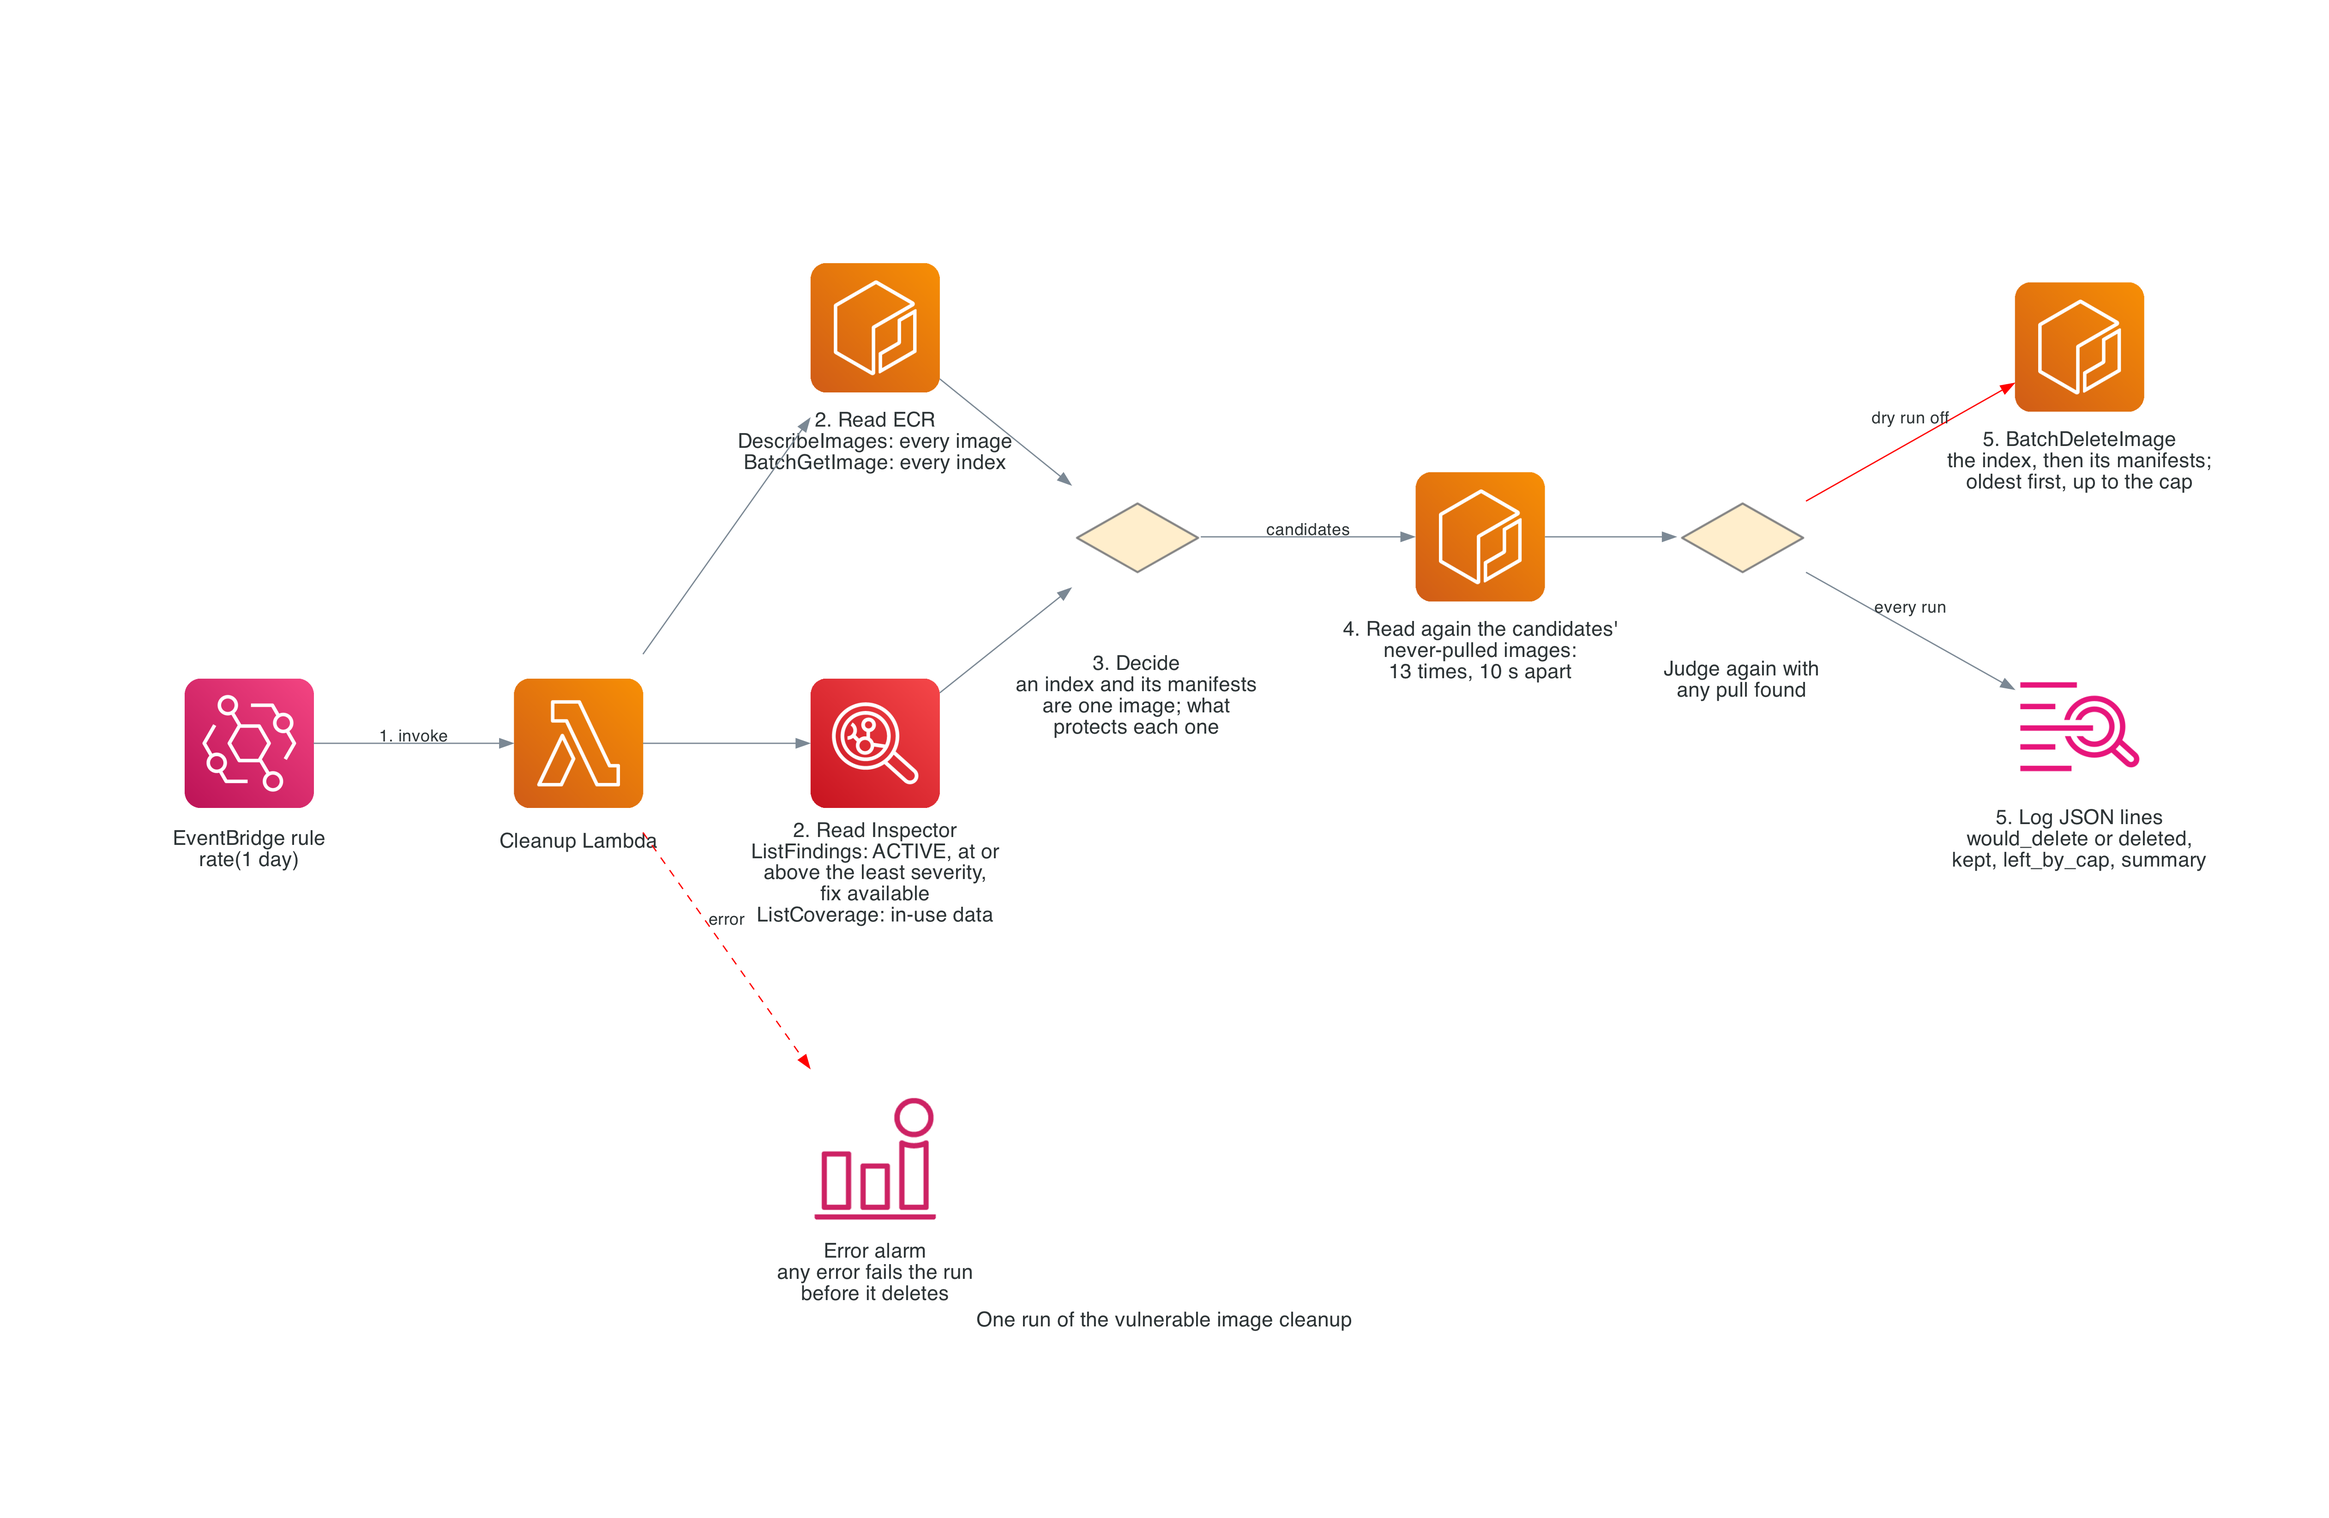
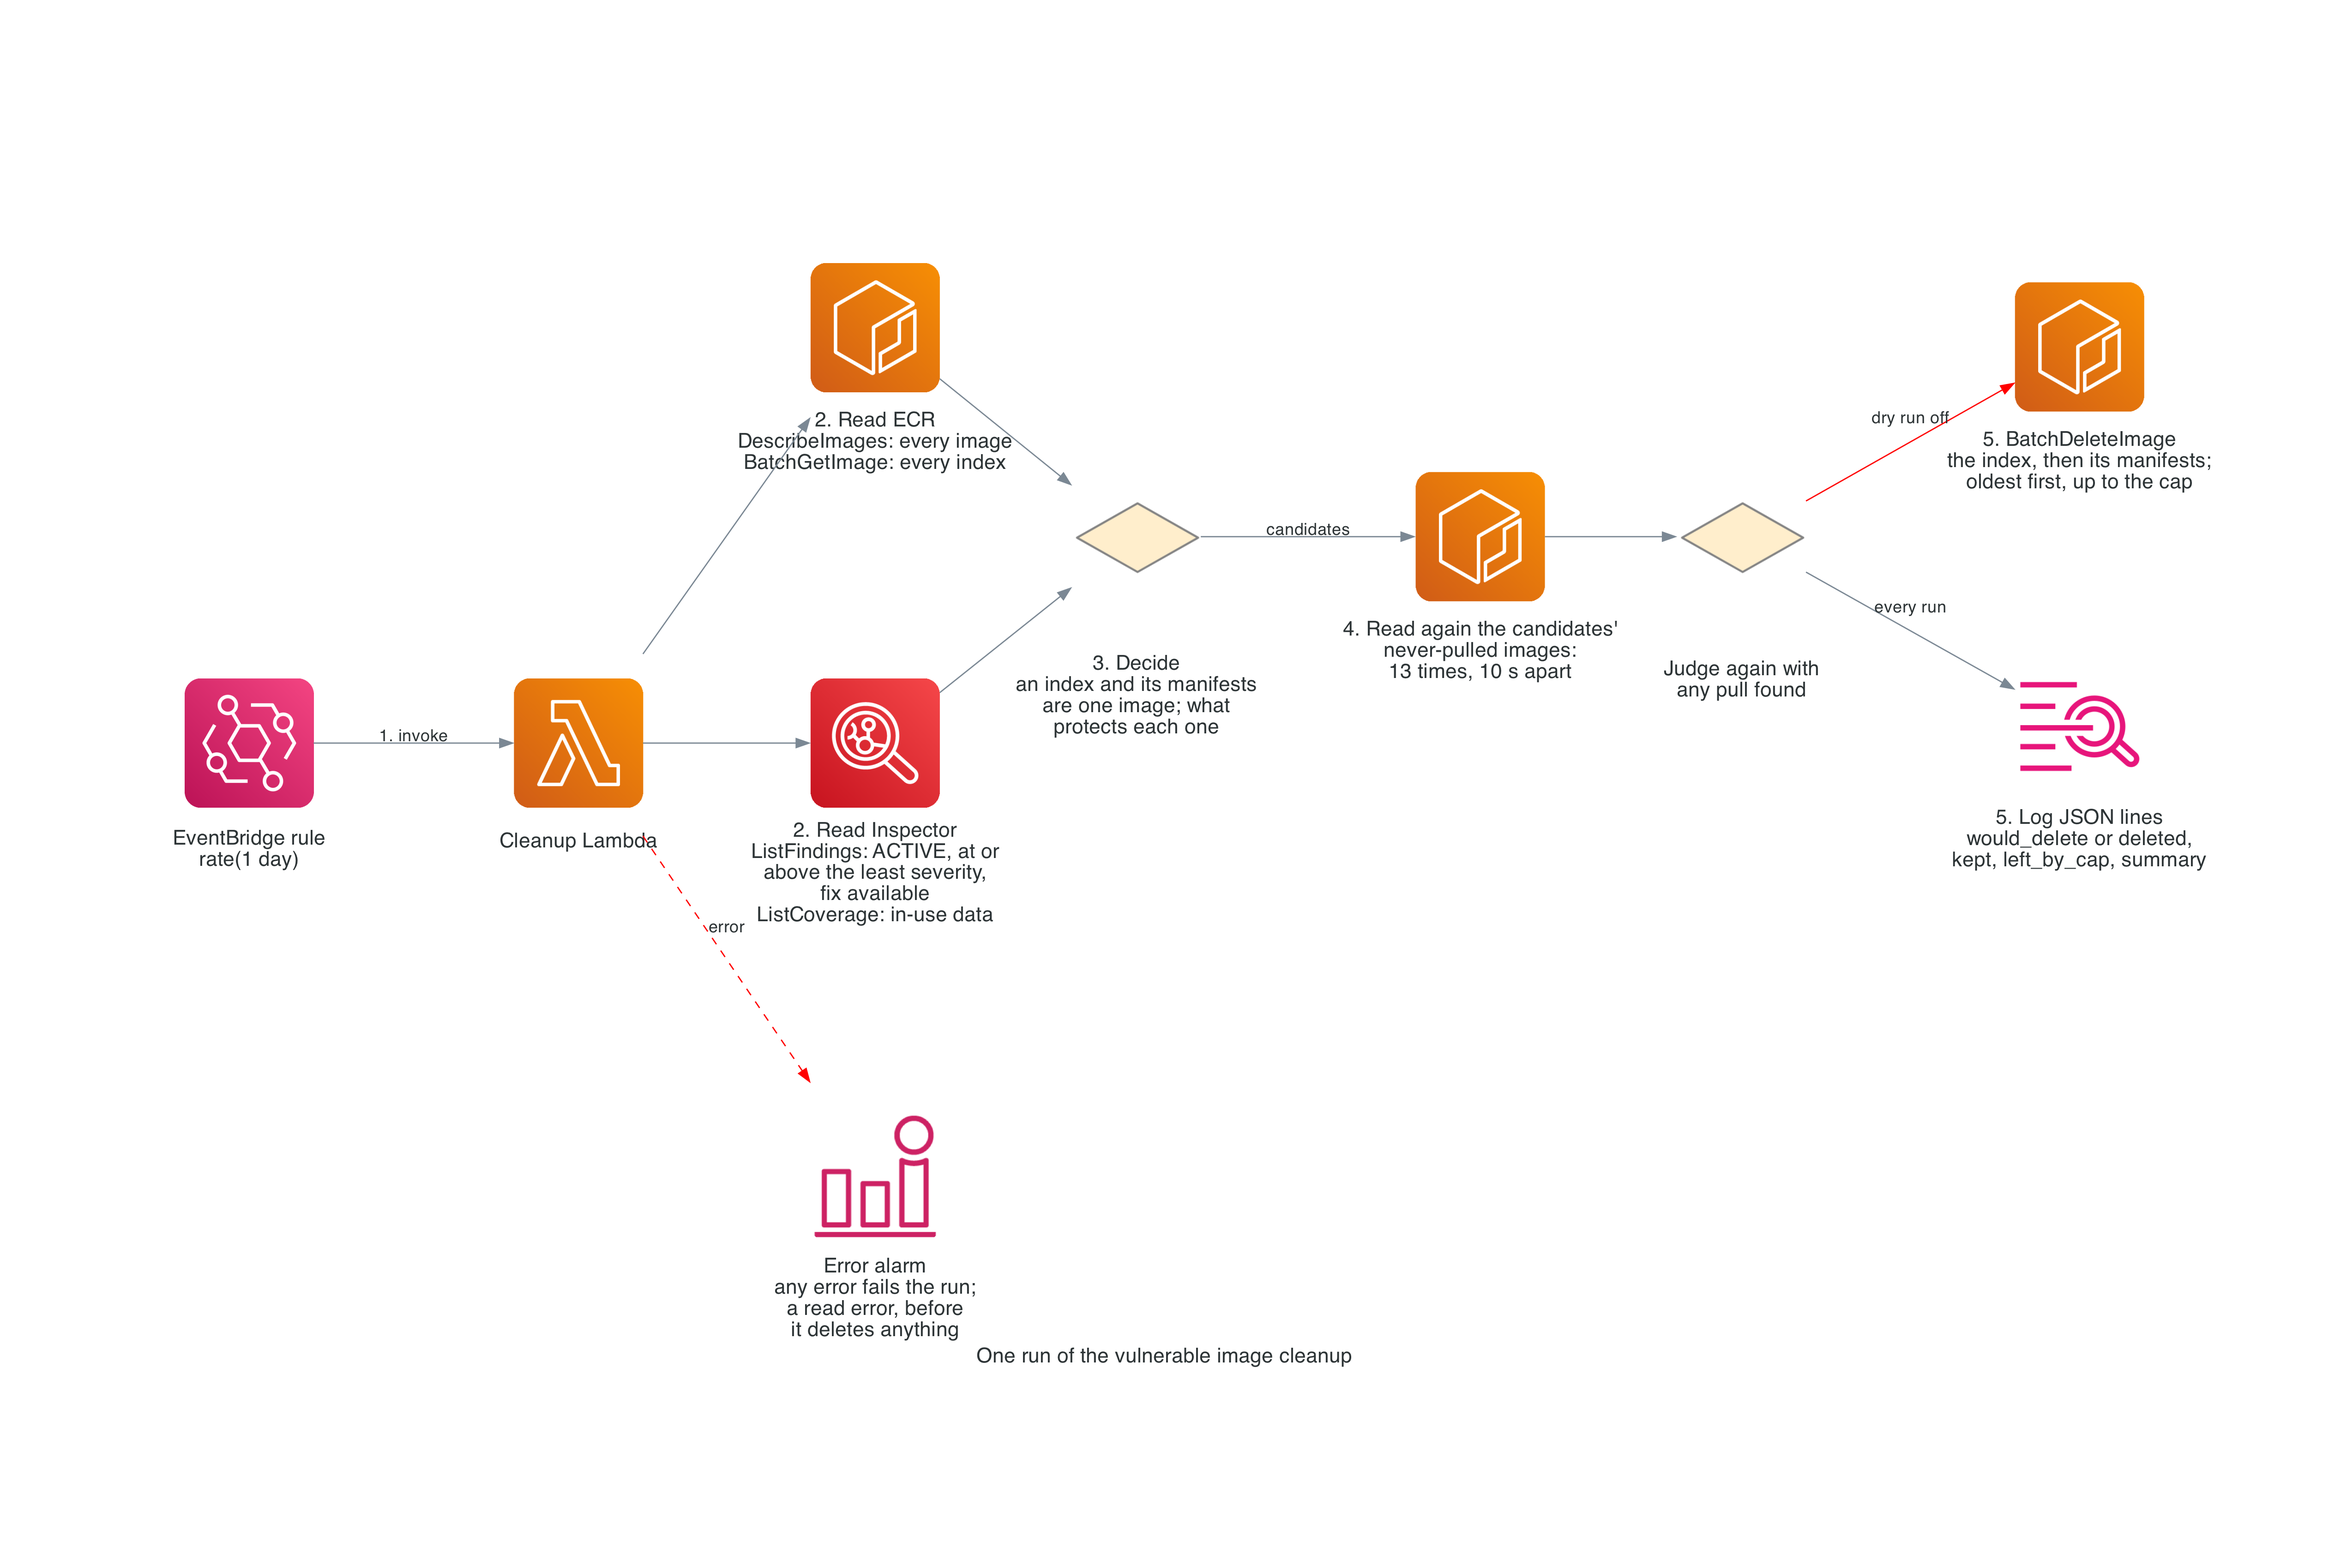
docs: review fixes: what the cleanup keeps, the soak, S3, the alarm label
- index, configuration, examples and the cleanup example: the cleanup
  protects the retained images and the rollback candidates the policy
  keeps; the expire_* rules protect nothing from it.
- configuration: the soak decides only for an image Inspector reports
  not running now; raise it for intermittent use, or retain its tag.
- getting-started: with the cleanup on, Terraform also manages S3
  buckets and objects; architecture names lambda-monitored's bucket.
- cleanup-run.png: a deletion that fails fails the run after other
  deletions; only a read error fails it before any.
- index and troubleshooting: Terraform 1.9 or later, below 2.0.
- architecture: the priorities example gets its tag_prefix_list;
  not_active is archived or being restored; the expire_* rules don't
  protect from the cleanup.
- examples.md and the cleanup example keep expire_days_untagged = 7, as
  "the rollback configuration above" says.

diff --git a/docs/assets/architecture.py b/docs/assets/architecture.py
@@ -120,7 +120,7 @@ def cleanup_run() -> None:
             "\n5. Log JSON lines\nwould_delete or deleted,\nkept, left_by_cap, summary"
         )
         alarm = CloudwatchAlarm(
-            "\nError alarm\nany error fails the run\nbefore it deletes"
+            "\nError alarm\nany error fails the run;\na read error, before\nit deletes anything"
         )
 
         schedule >> Edge(label="1. invoke") >> function

diff --git a/docs/architecture.md b/docs/architecture.md
@@ -47,8 +47,8 @@ image at most carries a tag. A rollback candidate is an image with a tag that st
 `rollback_candidate_tag_prefix`. The tagged images' filter is `tag_prefix_list` or `tag_pattern_list`.
 
 A rule that is off leaves a gap in the priorities, which ECR allows. For example, `retain_tags = ["pinned-1",
-"pinned-2"]`, `rollback_candidate_retain_count = 3`, `expire_days_tagged = 365` and `expire_count_untagged = 5` give
-rules at priorities 1, 2, 3, 6 and 7.
+"pinned-2"]`, `rollback_candidate_retain_count = 3`, `expire_days_tagged = 365` with `tag_prefix_list = ["v"]`, and
+`expire_count_untagged = 5` give rules at priorities 1, 2, 3, 6 and 7.
 
 ECR accepts only one rule per tag filter and one rule for untagged images. So of each pair, the count and the days,
 set one: a policy with both is refused at `terraform apply` (see [Troubleshooting](troubleshooting.md)). The module
@@ -126,9 +126,10 @@ All in `vulnerable_image_cleanup.tf`, each with `count`, so none of it exists wh
   [terraform-aws-lambda-monitored](https://github.com/infrahouse/terraform-aws-lambda-monitored) 2.2.1:
   `<repo_name>-<hash>-vuln-cleanup` (the repository's name made safe for Lambda, cut to 40 characters, and 6
   characters of its MD5), Python 3.12, a 300-second timeout and 256 MB. Its code is the `vulnerable_image_cleanup/`
-  directory, packaged where Terraform runs. lambda-monitored also creates the log group, `/aws/lambda/<function name>`,
-  kept 365 days; an SNS topic that emails `vulnerable_image_cleanup_alarm_emails`; an alarm on any error, and one on
-  throttling.
+  directory, packaged where Terraform runs. lambda-monitored also creates an S3 bucket, through
+  [terraform-aws-s3-bucket](https://github.com/infrahouse/terraform-aws-s3-bucket), that holds the package; the log
+  group, `/aws/lambda/<function name>`, kept 365 days; an SNS topic that emails
+  `vulnerable_image_cleanup_alarm_emails`; an alarm on any error, and one on throttling.
 - **An IAM policy** for the function's role:
     - `ecr:DescribeImages` and `ecr:BatchGetImage` on this repository;
     - `ecr:BatchDeleteImage` on this repository, only when `vulnerable_image_cleanup_dry_run` is false;
@@ -190,7 +191,11 @@ manifest it references. Each kept image's log line lists its reasons:
 - **`in_use_unknown`**: the function can't tell whether it is in use. See [How It Judges Use](#how-it-judges-use).
 - **`recent`**: it was pushed within `vulnerable_image_cleanup_min_age_days`, so an image waiting for its pin isn't
   deleted.
-- **`not_active`**: it isn't ACTIVE: an archived image. The lifecycle rules don't select those either.
+- **`not_active`**: it isn't ACTIVE: it is archived, or being restored. The lifecycle rules select ACTIVE images
+  only, too.
+
+The other lifecycle rules protect nothing from the cleanup: an image the `expire_*` rules keep is deleted if it is
+vulnerable and none of the reasons above holds.
 
 When two indexes share a platform image and only one is kept, the other index is deleted and the shared image stays.
 

diff --git a/docs/configuration.md b/docs/configuration.md
@@ -151,10 +151,13 @@ delete more images; raise it to `CRITICAL` to delete only the worst.
 waiting for its deployment or its pin isn't deleted. Raise it when images wait longer than a week between push and
 use.
 
-**`vulnerable_image_cleanup_soak_days`** protects an image in use, or used within this many days by Inspector's
-`lastInUseAt`, at least 1. Without Inspector's in-use data, an image ECR recorded a pull of within this many days is
-protected too, and one pulled before is kept as unknown. Raise it when a service can run an image for days without
-pulling it again.
+**`vulnerable_image_cleanup_soak_days`**, at least 1, decides for an image that Inspector reports not running now
+(`inUseCount` 0): one it last saw in use (`lastInUseAt`), or ECR recorded a pull of, within this many days is
+protected, and one before isn't.
+An image running now is protected whatever the soak. So is one without Inspector's in-use data that ECR recorded a
+pull of: within the soak, as in use; before it, as unknown. Raise the soak for intermittent use, such as a task that
+runs weekly: between runs Inspector reports it unused, and with the default 2 days the cleanup can delete it. A tag
+in `retain_tags` is the safer fix.
 
 **`vulnerable_image_cleanup_protect_rollback_candidates`** protects the rollback candidates the lifecycle policy keeps,
 vulnerable or not, so a rollback can go to them until they rotate out. Set it to `false` to delete a vulnerable
@@ -169,7 +172,9 @@ when you first turn deletion on.
 `rate(...)` or `cron(...)`. The default runs it once a day.
 
 The cleanup also reads `retain_tags`, `rollback_candidate_tag_prefix`, `rollback_candidate_retain_count` and
-`rollback_candidate_retain_days`, so it protects what the lifecycle policy keeps.
+`rollback_candidate_retain_days`, so it protects the retained images and the rollback candidates the lifecycle policy
+keeps. The `expire_*` rules protect nothing from it: a vulnerable image among the newest `expire_count_tagged`
+images, say, is deleted unless something else protects it.
 
 ## Outputs
 

diff --git a/docs/index.md b/docs/index.md
@@ -22,9 +22,9 @@ inputs, in an order that protects what runs:
 - **The rule order, computed.** Retained tags first, then rollback candidates, then tagged images, then untagged ones.
   Add a retained tag, and the other rules move down without renumbering.
 - **Vulnerable image cleanup.** Inspector reports vulnerabilities in every image it monitors, used or not. A daily
-  Lambda deletes the vulnerable images that nothing protects. It keeps what the lifecycle policy keeps, what runs or
-  ran recently, what was pushed recently, and anything whose use it can't judge. It runs dry until you turn deletion
-  on, and fails closed.
+  Lambda deletes the vulnerable images that nothing protects. It keeps the retained images and the rollback candidates
+  the lifecycle policy keeps, what runs or ran recently, what was pushed recently, and anything whose use it can't
+  judge. It runs dry until you turn deletion on, and fails closed.
 
 The module creates the repository and its lifecycle policy, and the cleanup when it is on. It sets no repository
 policy, replication, scanning or encryption options.
@@ -39,7 +39,7 @@ policy, replication, scanning or encryption options.
 - **Vulnerable image cleanup**, off by default and dry when on: a scheduled Lambda, monitored by
   [terraform-aws-lambda-monitored](https://github.com/infrahouse/terraform-aws-lambda-monitored), with alarm emails
   and JSON logs of every decision.
-- **Terraform 1.9 or later and AWS provider 6** (`>= 6.0, < 7.0`).
+- **Terraform 1.9 or later, below 2.0, and AWS provider 6** (`>= 6.0, < 7.0`).
 
 ## Quick Start
 

diff --git a/docs/examples.md b/docs/examples.md
@@ -94,6 +94,7 @@ module "ecr" {
   rollback_candidate_retain_count = 5
   expire_count_tagged             = 30
   tag_pattern_list                = ["*"]
+  expire_days_untagged            = 7
 
   vulnerable_image_cleanup_enabled      = true
   vulnerable_image_cleanup_alarm_emails = ["ops@example.com"]
@@ -103,9 +104,10 @@ module "ecr" {
 }
 ```
 
-It protects what the lifecycle policy keeps: the retained image and the 5 newest rollback candidates. It also keeps
-an image in use or used within 2 days, an image pushed within 7 days, and an image whose use it can't judge. Each run
-deletes at most 10 images, the oldest first, once deletion is on.
+It protects the retained image and the 5 newest rollback candidates, as the lifecycle policy keeps them. The
+tagged-image rule protects nothing from it: a vulnerable image among the 30 newest tagged images is deleted unless
+something else protects it. It also keeps an image in use or used within 2 days, an image pushed within 7 days, and an
+image whose use it can't judge. Each run deletes at most 10 images, the oldest first, once deletion is on.
 
 It needs Amazon Inspector's ECR scanning in the account and Region, and `python3`, `pip3`, the AWS CLI and `jq` where
 Terraform runs. The example's README shows how to run it now and read its log lines. A deletion can't be undone: before

diff --git a/examples/vulnerable-image-cleanup/README.md b/examples/vulnerable-image-cleanup/README.md
@@ -7,7 +7,9 @@ and deletes nothing.
 ## What This Example Creates
 
 - An ECR repository and its lifecycle policy: the retained images, the 5 newest rollback candidates, and the 30 newest
-  tagged images are kept
+  tagged images are kept, and untagged images expire after 7 days. The cleanup protects the retained images and the
+  rollback candidates; a vulnerable image among the 30 newest tagged images is deleted unless something else protects
+  it
 - A Lambda function, `<repo_name>-<hash>-vuln-cleanup`, built and monitored by
   [terraform-aws-lambda-monitored](https://github.com/infrahouse/terraform-aws-lambda-monitored): its log group,
   `/aws/lambda/<function name>`, kept 365 days, and error and throttle alarms that email `alarm_emails`

diff --git a/docs/getting-started.md b/docs/getting-started.md
@@ -23,8 +23,8 @@ module that pins AWS provider 5 fails at `terraform init`; see
 ### AWS Permissions
 
 Whoever runs Terraform needs to manage ECR repositories and their lifecycle policies. With the cleanup on, they also
-need to manage IAM roles and policies, Lambda functions, CloudWatch log groups and alarms, SNS topics and EventBridge
-rules.
+need to manage S3 buckets and objects (the function's package goes to a bucket that terraform-aws-lambda-monitored
+creates), IAM roles and policies, Lambda functions, CloudWatch log groups and alarms, SNS topics and EventBridge rules.
 
 ### For the Vulnerable Image Cleanup
 

diff --git a/docs/troubleshooting.md b/docs/troubleshooting.md
@@ -19,7 +19,7 @@ the vulnerable image cleanup is on or off: Terraform installs a module's provide
 dependencies need AWS provider 6.0.
 
 Upgrade the root module to AWS provider 6 (`version = "~> 6.0"`), then run `terraform init -upgrade`. The module
-also needs Terraform 1.9 or later: an older Terraform stops with `Unsupported Terraform Core version`.
+also needs Terraform 1.9 or later, below 2.0: another version stops with `Unsupported Terraform Core version`.
 
 ### `terraform plan` Fails with `Invalid Block`
 
